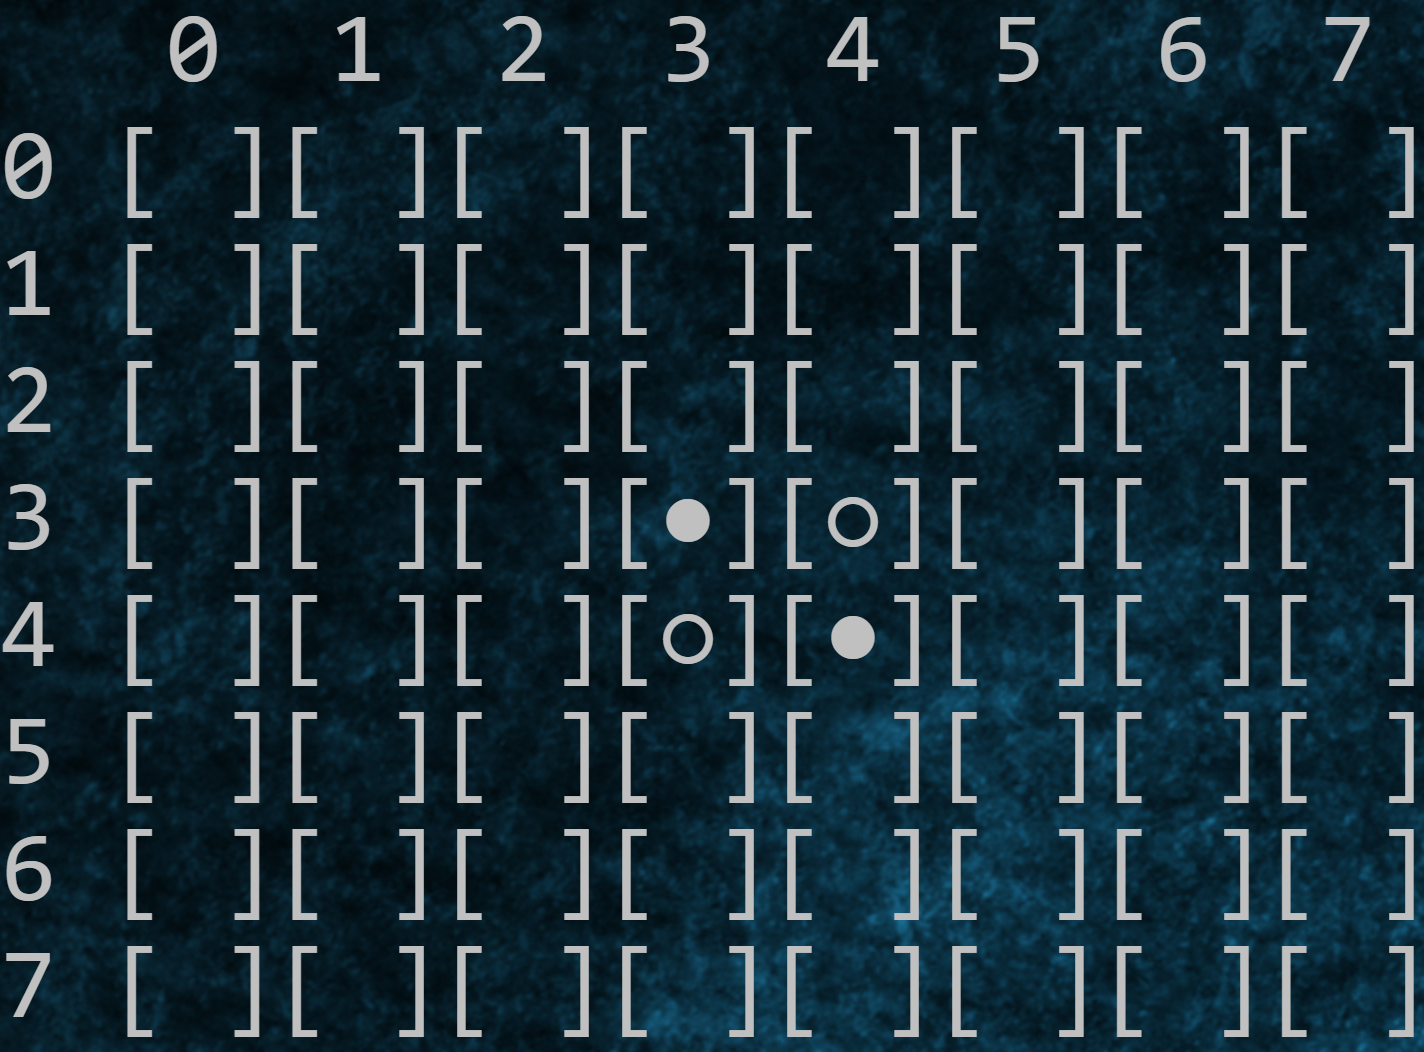
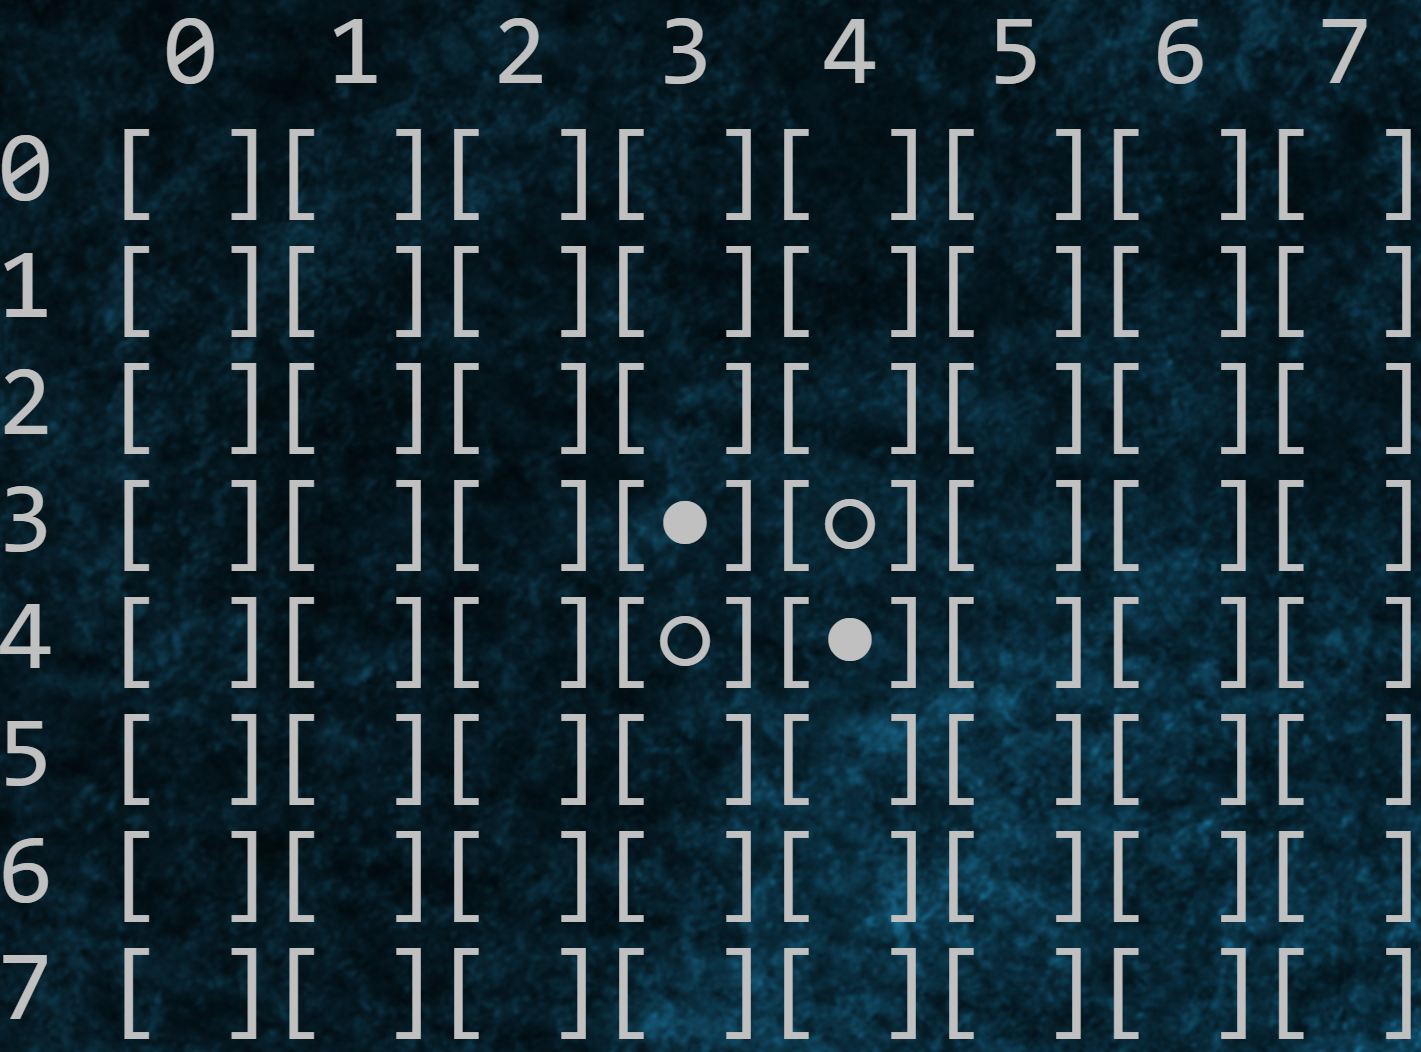
Fix Images

diff --git a/projects.html b/projects.html
@@ -35,7 +35,7 @@
         <div class="section">
             <h2>Othello A.I.</h2>
             <div class="row">
-                <img src="othello.PNG" height=auto width="40%"/>
+                <img src="othello.png" height=auto width="40%"/>
                 <div class="project">
                     <div>
                         <p id="description">
